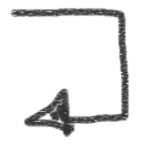
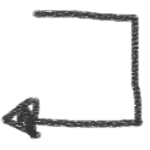
modified the position of the arrow in personal_website.html

Changed region(s): [[0.0, 0.0533, 0.96, 0.9333]]

diff --git a/personal_website.html b/personal_website.html
@@ -58,6 +58,9 @@
 			<a href="my_works.html"> <img src="icon/here.png" width="70px"></a> .</p>
 		
 		<p> You want more? </p>
+		<div class="arrow">
+			<img src="icon/arrow.png" width="90px">
+		</div>
 		<div class="me">
 			<a href="more.html"><img src="icon/me.png" width="70px"><a>
 		</div>

diff --git a/styles/personal_website_css.css b/styles/personal_website_css.css
@@ -107,6 +107,11 @@ div.me{
 	left:640px;
 }
 
+div.arrow{
+	position:absolute;
+	left: 720px;
+	top: 1510px;
+}
 
 footer{
 	text-align: center;
